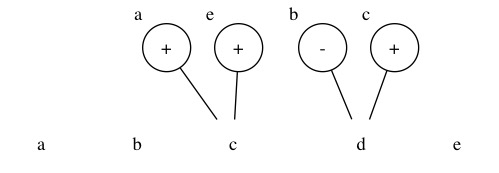
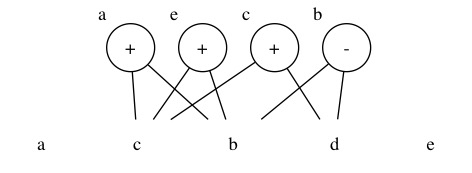
On accede a tout les bons enfants des nodes manque seulement les index

diff --git a/TP5/PrintExpressionDAGVisitor.java b/TP5/PrintExpressionDAGVisitor.java
@@ -14,7 +14,7 @@ public class PrintExpressionDAGVisitor implements ParserVisitor
   HashSet<String> m_leafs = new HashSet<String>();
   HashSet<String> m_links = new HashSet<String>();
   String enfant = "";
-  String myid = "";
+  String ndoeId = "";
   String m_outputFileName = null;
   PrintWriter m_writer = null;
 
@@ -97,12 +97,15 @@ public class PrintExpressionDAGVisitor implements ParserVisitor
     addNode(String.valueOf(m_nodes.size()), node.getOp(), assigned.getValue());
     
     String parent = node.jjtGetChild(0).jjtAccept(this, data).toString();
+    String enfant1 = node.jjtGetChild(1).jjtAccept(this, data).toString();
+    String enfant2 = node.jjtGetChild(2).jjtAccept(this, data).toString();
     String operation = node.getOp().toString();
-    System.out.print(myid);
-    addLink(myid, enfant);
+    //System.out.print(ndoeId);
+    addLink(ndoeId, enfant1);
+    addLink(ndoeId, enfant2);
     
     // TODO:: Comment lier le noeud à ces enfants?
-    //System.out.print(enfant);
+    //System.out.print(enfant2);
     // TODO:: Comment fusionner ce noeud a un autre si si l'expression est identique?
 
     return null;
@@ -116,12 +119,6 @@ public class PrintExpressionDAGVisitor implements ParserVisitor
     ASTIdentifier assigned = (ASTIdentifier)node.jjtGetChild(0);
 
     addNode(String.valueOf(m_nodes.size()), "minus", assigned.getValue());
-
-
-    //String enfant = "";
-
-    
-    
 
     // TODO:: Quoi faire lorsque le noeud est un unaire?
 
@@ -151,9 +148,8 @@ public class PrintExpressionDAGVisitor implements ParserVisitor
   public Object visit(ASTExpr node, Object data) {
   	node.childrenAccept(this, null);
 
-    
-
     enfant = node.jjtGetChild(0).jjtAccept(this, data).toString();
+
     //System.out.print(enfant);
 
   	return enfant;
@@ -194,13 +190,13 @@ public class PrintExpressionDAGVisitor implements ParserVisitor
   public void addLeaf(String uniqueLabel) {
     if(m_leafs.contains(uniqueLabel))
       return;
-
+    //System.out.print(uniqueLabel);
     m_leafs.add(uniqueLabel);
     m_writer.println("  " + uniqueLabel + " [label=\"" + uniqueLabel + "\", shape=\"none\"]");
   }
 
   public void addNode(String uniqueId, String label, String notation) {
-    myid = uniqueId;
+    ndoeId = uniqueId;
     if(m_nodes.contains(uniqueId))
       return;
 

diff --git a/TP5/gen/PrintExpressionDAGVisitor.java b/TP5/gen/PrintExpressionDAGVisitor.java
@@ -14,7 +14,7 @@ public class PrintExpressionDAGVisitor implements ParserVisitor
   HashSet<String> m_leafs = new HashSet<String>();
   HashSet<String> m_links = new HashSet<String>();
   String enfant = "";
-  String myid = "";
+  String ndoeId = "";
   String m_outputFileName = null;
   PrintWriter m_writer = null;
 
@@ -97,12 +97,15 @@ public class PrintExpressionDAGVisitor implements ParserVisitor
     addNode(String.valueOf(m_nodes.size()), node.getOp(), assigned.getValue());
     
     String parent = node.jjtGetChild(0).jjtAccept(this, data).toString();
+    String enfant1 = node.jjtGetChild(1).jjtAccept(this, data).toString();
+    String enfant2 = node.jjtGetChild(2).jjtAccept(this, data).toString();
     String operation = node.getOp().toString();
-    System.out.print(myid);
-    addLink(myid, enfant);
+    //System.out.print(ndoeId);
+    addLink(ndoeId, enfant1);
+    addLink(ndoeId, enfant2);
     
     // TODO:: Comment lier le noeud à ces enfants?
-    //System.out.print(enfant);
+    //System.out.print(enfant2);
     // TODO:: Comment fusionner ce noeud a un autre si si l'expression est identique?
 
     return null;
@@ -116,12 +119,6 @@ public class PrintExpressionDAGVisitor implements ParserVisitor
     ASTIdentifier assigned = (ASTIdentifier)node.jjtGetChild(0);
 
     addNode(String.valueOf(m_nodes.size()), "minus", assigned.getValue());
-
-
-    //String enfant = "";
-
-    
-    
 
     // TODO:: Quoi faire lorsque le noeud est un unaire?
 
@@ -151,9 +148,8 @@ public class PrintExpressionDAGVisitor implements ParserVisitor
   public Object visit(ASTExpr node, Object data) {
   	node.childrenAccept(this, null);
 
-    
-
     enfant = node.jjtGetChild(0).jjtAccept(this, data).toString();
+
     //System.out.print(enfant);
 
   	return enfant;
@@ -194,13 +190,13 @@ public class PrintExpressionDAGVisitor implements ParserVisitor
   public void addLeaf(String uniqueLabel) {
     if(m_leafs.contains(uniqueLabel))
       return;
-
+    //System.out.print(uniqueLabel);
     m_leafs.add(uniqueLabel);
     m_writer.println("  " + uniqueLabel + " [label=\"" + uniqueLabel + "\", shape=\"none\"]");
   }
 
   public void addNode(String uniqueId, String label, String notation) {
-    myid = uniqueId;
+    ndoeId = uniqueId;
     if(m_nodes.contains(uniqueId))
       return;
 
